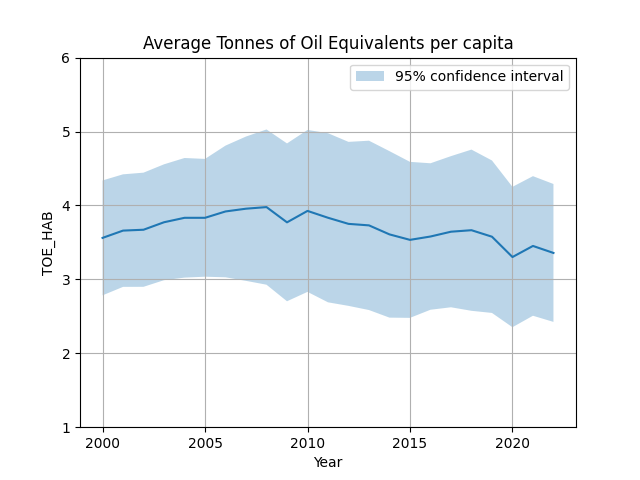
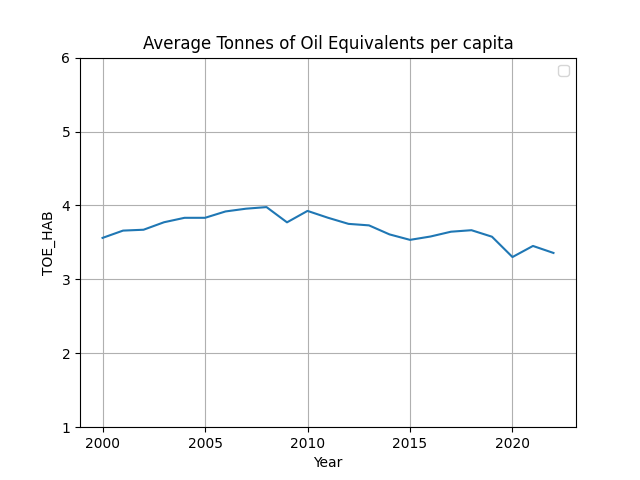
Added a twinx-method which combines two plots into one

Changed region(s): [[0.1562, 0.25, 0.875, 0.6875], [0.5312, 0.125, 0.9062, 0.1875]]

diff --git a/project/analysis.py b/project/analysis.py
@@ -3,10 +3,10 @@ import pandas as pd
 import geopandas as gpd
 import pandas as pd
 
-import os
 import matplotlib.pyplot as plt
 import seaborn as sns
 from shapely.geometry import Polygon
+from matplotlib.lines import Line2D
 
 from typing import Tuple
 
@@ -41,7 +41,7 @@ class Analysis:
         self.column_name_to_title_description = {
             "CHANGE_INDICATOR": "Temperature change indicator (degrees Celsius)",
             "TOE_HAB": "Tonnes of Oil Equivalents per capita",
-            "MTOE": "Total Million Tonnes of Oil Equivalent per year",
+            "MTOE": "Million Tonnes of Oil Equivalent per GDP",
         }
 
 
@@ -107,7 +107,13 @@ class Analysis:
 
             europe_avg.boundary.plot(ax=ax, color="black")
             europe_avg.plot(column=column+"_avg", ax=ax, legend=True, cmap="Reds")
-            plt.title("Average " + self.column_name_to_title_description[column])
+
+            if column == "CHANGE_INDICATOR":
+                plt.title("Average temperature increase in degrees Celsius (2000 - 2022)")
+            else:
+                plt.title(f"Average {self.column_name_to_title_description[column]} (2000 - 2022)")
+                
+
         else:
             self.europe.boundary.plot(ax=ax, color="black")
             self.europe.plot(column=column, ax=ax, legend=True, cmap="Reds")
@@ -244,6 +250,58 @@ class Analysis:
         plt.savefig(save_path)
         plt.show()
 
+    def twinx_plot(
+            self, 
+            column_1: str, 
+            column_2: str, 
+            average: bool = True) -> None:
+
+        if column_1 not in self.europe.columns:
+            raise ValueError(f"Column {column_1} not in the dataframe")
+        if column_2 not in self.europe.columns:
+            raise ValueError(f"Column {column_2} not in the dataframe")
+        
+        fig, ax1 = plt.subplots(figsize=(20, 10))
+
+        if average:
+            average_data_1 = self.europe.groupby("TIME_PERIOD")[column_1].mean().reset_index()
+            europe_avg_1 = self.europe.drop_duplicates("TIME_PERIOD").merge(
+                average_data_1, on="TIME_PERIOD", suffixes=("", "_avg"))
+
+            sns.lineplot(data=europe_avg_1, x="TIME_PERIOD", y=column_1+"_avg", ax=ax1)
+            ax1.set_ylabel(self.column_name_to_title_description[column_1])
+            ax1.set_xlabel("Year")
+            ax1.grid(True)
+
+            ax2 = ax1.twinx()
+            average_data_2 = self.europe.groupby("TIME_PERIOD")[column_2].mean().reset_index()
+            europe_avg_2 = self.europe.drop_duplicates("TIME_PERIOD").merge(
+                average_data_2, on="TIME_PERIOD", suffixes=("", "_avg"))
+
+            sns.lineplot(data=europe_avg_2, x="TIME_PERIOD", y=column_2+"_avg", ax=ax2, color="red")
+            ax2.set_ylabel(self.column_name_to_title_description[column_2], color="red")
+
+            plt.title(f"Average {self.column_name_to_title_description[column_1]} and {self.column_name_to_title_description[column_2]} over the years")
+
+            # Creating unified legend
+            legend_handles = [Line2D([0], [0], color='blue', label=column_1),
+                            Line2D([0], [0], color='red', label=column_2)]
+            ax1.legend(handles=legend_handles)
+
+        else:
+            self.europe.plot(x="TIME_PERIOD", y=column_1, legend=False)
+            plt.title(self.column_name_to_title_description[column_1])
+
+            ax2 = ax1.twinx()
+            self.europe.plot(x="TIME_PERIOD", y=column_2, legend=False, ax=ax2, color="red")
+            plt.title(self.column_name_to_title_description[column_2])
+
+        
+        save_path = os.path.join(self.PLOT_ROOT_DIR, column_1 + "_" + column_2 + "_twinx_plot.png")
+        plt.savefig(save_path)
+
+        plt.show()
+
 
 if __name__ == "__main__":
     data_path = os.path.join(ROOT_DIR, "final_data.csv")
@@ -251,6 +309,7 @@ if __name__ == "__main__":
     data = pd.read_csv(data_path)
 
     analysis = Analysis(data)
+    
     analysis.create_map_plot("CHANGE_INDICATOR", average=True)
 
     analysis.create_heatmap("CHANGE_INDICATOR", cmap="Reds")
@@ -262,14 +321,14 @@ if __name__ == "__main__":
     analysis.create_lineplot(
         "TOE_HAB", 
         average=True, 
-        confidence_interval=True,
+        confidence_interval=False,
         ylim=(1, 6)
         )
 
     analysis.create_lineplot(
         "MTOE", 
         average=True, 
-        confidence_interval=True,
+        confidence_interval=False,
         ylim=(0, 100)
         )
     
@@ -277,3 +336,4 @@ if __name__ == "__main__":
     analysis.create_scatterplot("CHANGE_INDICATOR", "MTOE", average=True)
 
     analysis.create_correlation_plot()
+    analysis.twinx_plot("MTOE", "TOE_HAB", average=True)
